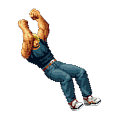
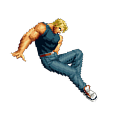
캐릭터2 다이브킥 모션 변경 및 점프 방향 수정

Changed region(s): [[0.0769, 0.0492, 0.8718, 0.9098]]

diff --git a/main.py b/main.py
@@ -340,19 +340,27 @@ while running:
         current_sprite_h2 = BASE_SPRITE_H_P2
 
     # P2 그릴 크기 (현재 프레임 기준 2배)
-    other_w = current_sprite_w2 * 2
-    other_h = current_sprite_h2 * 2
+    # 다이브킥일 때 살짝 크게 보이도록 확대 (예: 15% 증가)
+    if is_dive_kicking2:
+        other_w = int(current_sprite_w2 * 2 * 1.15)
+        other_h = int(current_sprite_h2 * 2 * 1.15)
+    else:
+        other_w = current_sprite_w2 * 2
+        other_h = current_sprite_h2 * 2
 
     # P2 그리기 (방향 전환)
+    # 점프 중(다이브킥 제외)일 때만 좌우 반전
+    draw_direction2 = -current_direction2 if (is_jumping2 and not is_dive_kicking2) else current_direction2
+
     if frame_info2:  # 걷기 또는 점프 (clip_draw)
-        if current_direction2 == -1:
+        if draw_direction2 == -1:
             current_sheet2.clip_composite_draw(frame_info2[0], frame_info2[1], frame_info2[2], frame_info2[3], 0, 'h',
                                                other_x, other_y, other_w, other_h)
         else:
             current_sheet2.clip_draw(frame_info2[0], frame_info2[1], frame_info2[2], frame_info2[3], other_x, other_y,
                                      other_w, other_h)
     elif current_sheet2:  # 서있기 또는 다이브킥 (draw)
-        if current_direction2 == -1:
+        if draw_direction2 == -1:
             current_sheet2.composite_draw(0, 'h', other_x, other_y, other_w, other_h)
         else:
             current_sheet2.draw(other_x, other_y, other_w, other_h)
